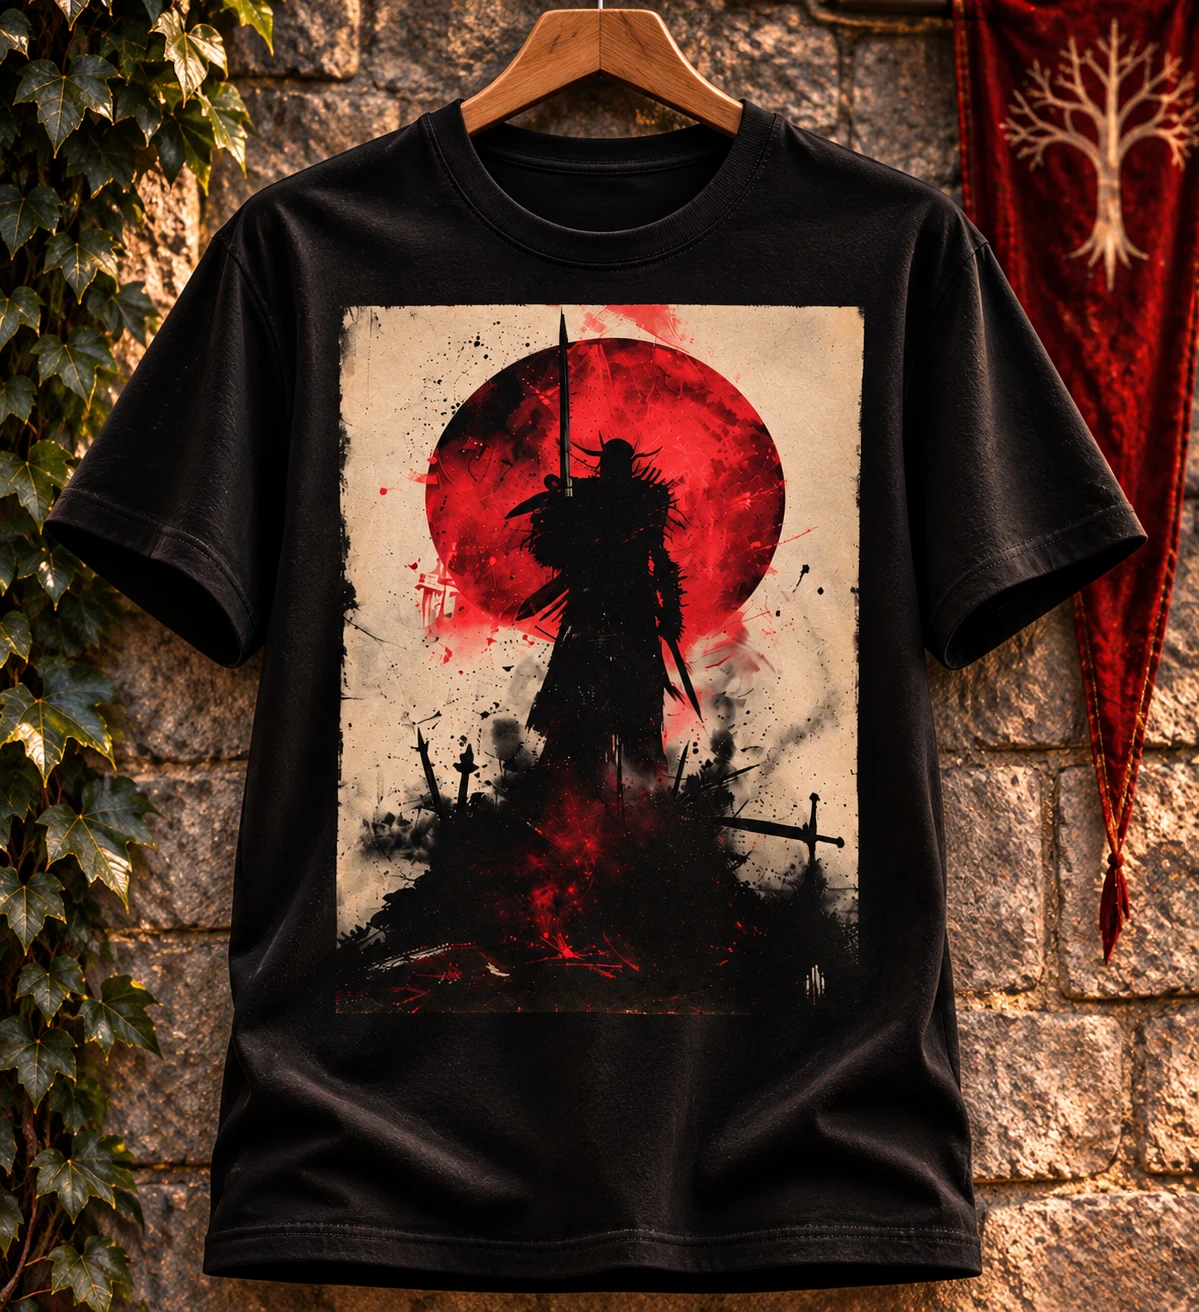
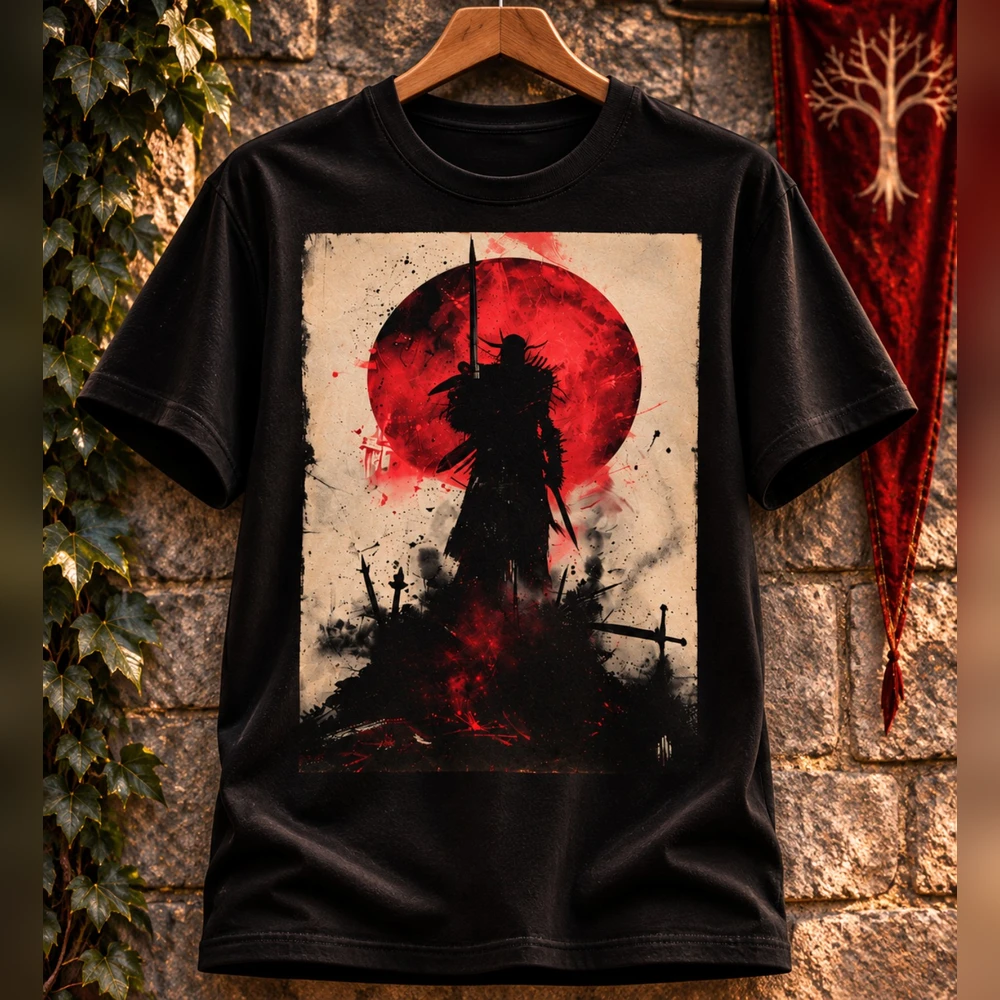
Swap Eclipse Carmesí photos for a square set (DML)
Replaces the three Eclipse Carmesí product photos with a new set (all
exactly square: 1254x1254 and 1000x1000) and simplifies the card back
to the grid's default 1:1 box with object-fit:cover, removing the
now-unused vertical/contain modifier the previous portrait photos
needed.

Claude-Session: https://claude.ai/code/session_012yoaRDnNDApPVyvypB1AdJ

diff --git a/dark-medieval-legends.html b/dark-medieval-legends.html
@@ -237,9 +237,7 @@ footer::before{opacity:.08;animation-duration:24s;}
 .coll-placeholder span{font-family:'Cinzel',serif;font-size:.6rem;letter-spacing:1px;color:var(--dim);opacity:.5;text-align:center;padding:0 10%;}
 .coll-product-label{text-align:center;margin-top:10px;font-size:.78rem;color:var(--dim);line-height:1.3;}
 .coll-placeholder.coll-product-filled{border:1px solid var(--border);background:#050816;}
-.coll-placeholder.coll-product-vertical{aspect-ratio:3/4;}
 .coll-product-shot{position:absolute;inset:0;width:100%;height:100%;object-fit:cover;opacity:0;animation:collProductFade 9s ease-in-out infinite;}
-.coll-product-vertical .coll-product-shot{object-fit:contain;}
 .coll-product-shot:nth-of-type(1){animation-delay:0s;}
 .coll-product-shot:nth-of-type(2){animation-delay:3s;}
 .coll-product-shot:nth-of-type(3){animation-delay:6s;}
@@ -403,10 +401,10 @@ footer::before{opacity:.08;animation-duration:24s;}
   </div>
   <div class="coll-products-grid">
     <div>
-      <div class="coll-placeholder coll-product-filled coll-product-vertical">
-        <img class="coll-product-shot" src="artefacts-dark-medieval-legends-product-eclipse-1.webp" alt="Eclipse Carmesí t-shirt worn by a man model">
+      <div class="coll-placeholder coll-product-filled">
+        <img class="coll-product-shot" src="artefacts-dark-medieval-legends-product-eclipse-1.webp" alt="Eclipse Carmesí t-shirt worn by a woman model">
         <img class="coll-product-shot" src="artefacts-dark-medieval-legends-product-eclipse-2.webp" alt="Eclipse Carmesí t-shirt on a hanger" loading="lazy">
-        <img class="coll-product-shot" src="artefacts-dark-medieval-legends-product-eclipse-3.webp" alt="Eclipse Carmesí t-shirt worn by a woman model" loading="lazy">
+        <img class="coll-product-shot" src="artefacts-dark-medieval-legends-product-eclipse-3.webp" alt="Eclipse Carmesí t-shirt worn by a man model" loading="lazy">
       </div>
       <p class="coll-product-label">Eclipse Carmesí</p>
     </div>
